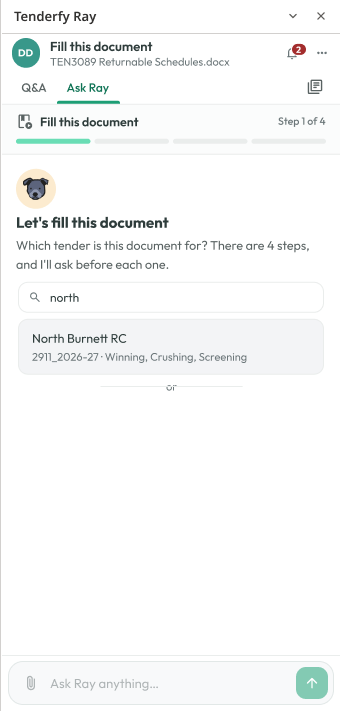
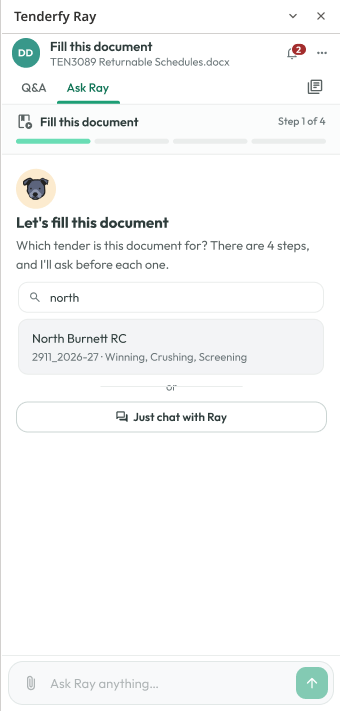
Docs/Figma: E52 Just chat button frame, scanbar drawn raw, missing Button variants; doc script swaps E50 shots to E52

Changed region(s): [[0.3235, 0.557, 0.6765, 0.6188]]

diff --git a/figma-export/mkdata.js b/figma-export/mkdata.js
@@ -22,7 +22,7 @@ const NAMES = {
   E26: ['Question card / 6.1 Pricing basis / Ray · Draft from a file', 'H12'], E27: ['Question card / 6.1 Pricing basis / Ray · File Manager', 'H12'], E28: ['Question card / 6.1 Pricing basis / Ray · Drafting', 'H12'], E29: ['Question card / 6.1 Pricing basis / Ray · Reply', 'H12'],
   E30: ['Question card / 6.1 Pricing basis / Ray · Use this answer', 'H13'], E31: ['Question card / 6.1 Pricing basis / Full screen', 'H13'], E32: ['Q&A list / Not a Question / Dismissed', 'H13'],
   E35: ['Q&A list / Missed question / Right-click menu', 'H08'], E36: ['Q&A list / Missed question / Added as Needs Review', 'H08'],
-  E37: ["Q&A list / Protected document / Couldn't insert rows", 'H07'], E38: ['Ask Ray / Choose the tender / No tenders', 'H01'], E50: ['Ask Ray / Conversation / Just chat (no fill)', 'H01'], E51: ['Q&A list / Chat only / Fill this document', 'H01'],
+  E37: ["Q&A list / Protected document / Couldn't insert rows", 'H07'], E38: ['Ask Ray / Choose the tender / No tenders', 'H01'], E50: ['Ask Ray / Conversation / Just chat (no fill)', 'H01'], E51: ['Q&A list / Chat only / Fill this document', 'H01'], E52: ['Ask Ray / Choose the tender / Just chat with Ray', 'H01'],
   E39: ['Ask Ray / Choose the tender / Loading', 'H01'], E40: ['Ask Ray / Choose where to upload / No folders', 'H02'], E41: ['Ask Ray / File Manager / Empty', 'H04'],
   E42: ['Ask Ray / Add reference documents / Unsupported file', 'H03'], E43: ['Ask Ray / Fill this document / Upload failed', 'H06'],
   E44: ['Ask Ray / Fill this document / Library unreachable', 'H06'], E45: ['Ask Ray / Fill this document / Connection lost', 'H06'],
@@ -32,7 +32,7 @@ const NAMES = {
 const OLD = { H01: '18:8546', H02: '18:9046', H03: '18:9546', H04: '18:10032', H05: '18:10745', H06: '18:11371', H07: '18:11983', H08: '18:12544', H09: '18:13106', H10: '18:13669', H11: '18:14285', H12: '18:14849', H13: '18:15411', H14: '18:16023',
   E01: '18:16639', E02: '18:17333', E03: '18:17830', E04: '18:18449', E05: '18:19070', E06: '18:19680', E07: '18:20291', E08: '18:20910', E09: '18:21539', E10: '18:22104', E11: '18:22701', E12: '18:23260', E13: '18:23841', E14: '18:24417', E15: '18:24937', E16: '18:25497', E17: '18:7925', E18: '18:26103', E19: '18:26722', E20: '18:27329', E21: '18:27930', E22: '18:28565', E23: '32:26203', E24: '32:26766', E25: '32:27332', E26: '32:27970',
   E27: '35:21310', E28: '35:21999', E29: '35:22573', E30: '35:23167', E31: '35:23730', E32: '35:24263', E33: '35:24868', E34: '35:25430', E35: '50:5774', E36: '50:6453', E37: '50:7112', E38: '50:7738',
-  E39: '58:6257', E40: '58:6800', E41: '58:7339', E42: '58:7946', E43: '58:8501', E44: '58:9065', E45: '58:9629', E46: '58:10199', E47: '58:10763', E48: '58:11420', E49: '58:12059', E50: '71:17198', E51: '71:17726' };
+  E39: '58:6257', E40: '58:6800', E41: '58:7339', E42: '58:7946', E43: '58:8501', E44: '58:9065', E45: '58:9629', E46: '58:10199', E47: '58:10763', E48: '58:11420', E49: '58:12059', E50: '71:17198', E51: '71:17726', E52: '76:12816' };
 const pos = {}, stack = {};
 for (const [id, [, br]] of Object.entries(NAMES)) {
   if (!br) pos[id] = { x: (+id.slice(1) - 1) * 1640, y: 0 };

diff --git a/figma-export/capture.js b/figma-export/capture.js
@@ -161,6 +161,8 @@ document.head.insertAdjacentHTML('beforeend','<style>*,*::before,*::after{animat
   await snap('E37', 'Protected document · rows', "In a protected document each row Ray filled says Couldn't insert, with its own Copy button.", 'edge');
   await fresh(); await run(`$c('[data-do=wfnotenders]')`); await untoast();
   await snap('E38', 'No tenders', 'With no tenders on Tenderfy, step 1 says so and links to Tenderfy to create one.', 'edge');
+  await fresh(); await run(`const p=document.querySelector('.pbody');p.scrollTop=p.scrollHeight`);
+  await snap('E52', 'Choose the tender · Just chat', 'Under the tender list, an "or" divider and Just chat with Ray, which skips filling and opens the chat.', 'edge');
   await fresh(); await run(`$c('[data-do=wfchat]')`);
   await run(`$type('#cin','What is our ABN?');document.querySelector('#cin').dispatchEvent(new KeyboardEvent('keydown',{key:'Enter',bubbles:true}))`); await b.sleep(2600); await untoast();
   await run(`const p=document.querySelector('.pbody');p.scrollTop=p.scrollHeight`);

diff --git a/figma-export/post.js b/figma-export/post.js
@@ -121,7 +121,7 @@ function tag(n, lh) {
 // [set name, class token, keep size in signature]
 const SETS = [
   ['Avatar', 'av', 1], ['Button', 'btn'], ['Pill', 'ins'], ['Tag', 'atag'], ['Section header', 'sec'], ['Select', 'stfsel'],
-  ['Segmented control', 'modes'], ['Inline answer', 'qa'], ['Scan card', 'scanbar'], ['Ray box', 'refine'], ['Editor toolbar', 'ed-tools'],
+  ['Segmented control', 'modes'], ['Inline answer', 'qa'], ['Ray box', 'refine'], ['Editor toolbar', 'ed-tools'],
   ['Status dot', 'st'], ['Toast', '#toast'], ['Word / Tabs', 'wtabs', 1], ['Word / Ribbon', 'ribbon', 1], ['Pane / Header', 'tp-head', 1],
 ];
 const classes = n => (n.n || '').split('.').filter(Boolean);
